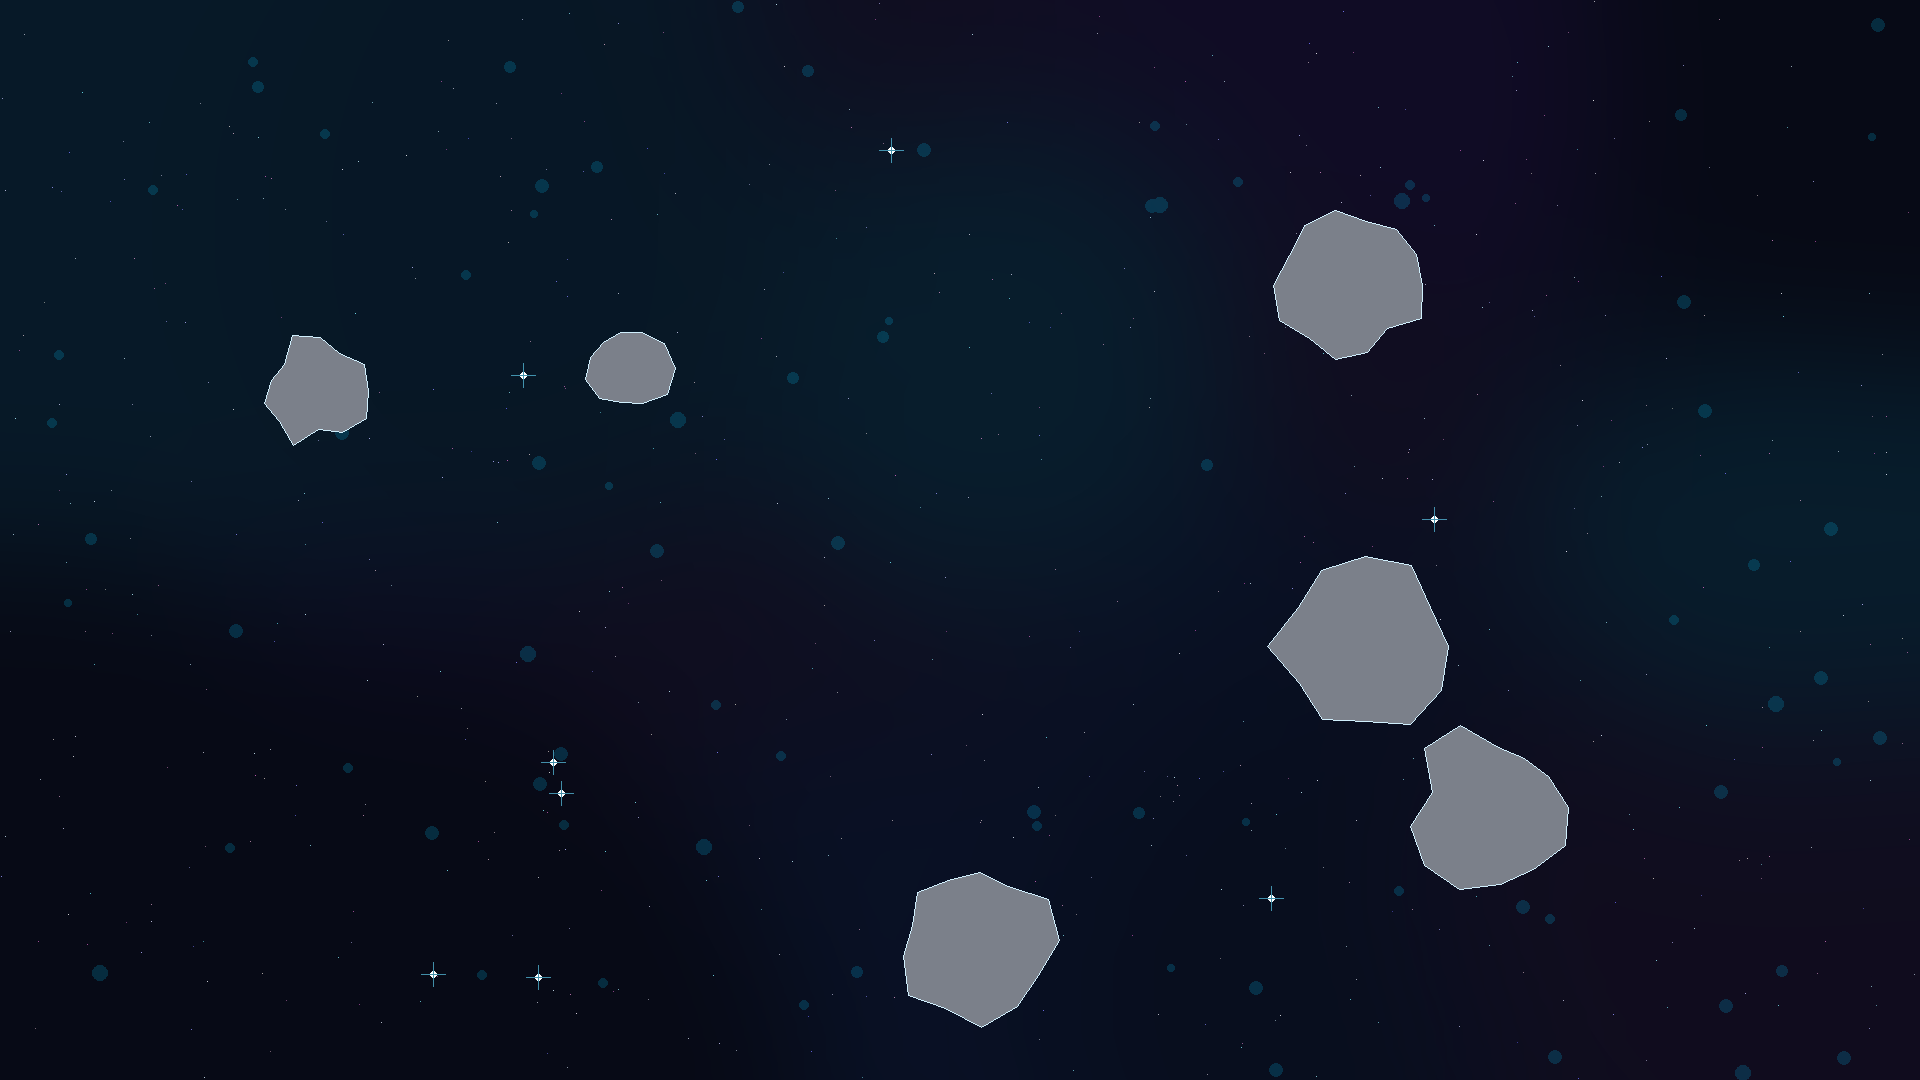
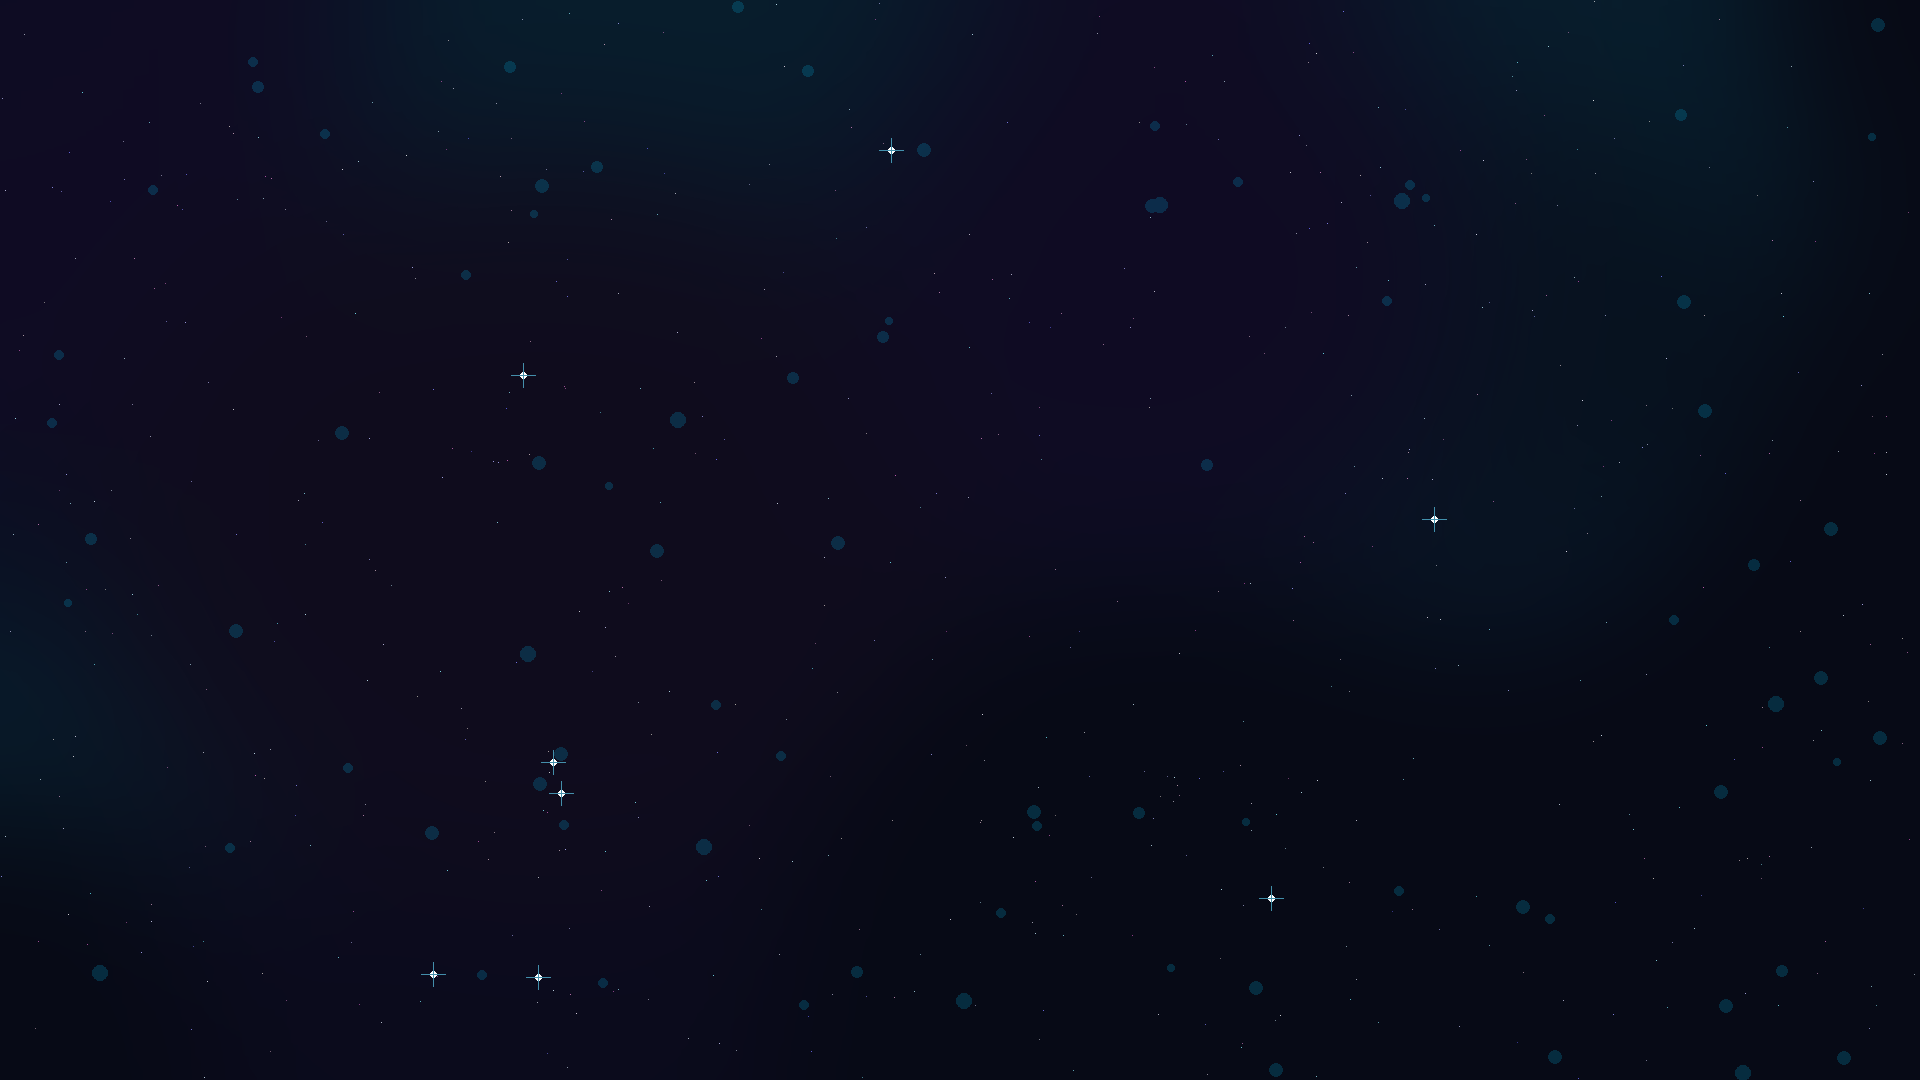
fix(asteroid_drift): clean background texture, enable drop pickups and ensure wave progression

diff --git a/asteroid_drift/assets/generate_graphics.py b/asteroid_drift/assets/generate_graphics.py
@@ -68,24 +68,9 @@ def create_nebula(width, height):
 def generate_menu_bg():
     width, height = 1920, 1080
     bg = create_nebula(width, height)
-    draw = ImageDraw.Draw(bg)
-    
-    # Distant subtle asteroid silhouettes in the background
-    random.seed(1337)
-    for _ in range(6):
-        ax = random.randint(100, width - 100)
-        ay = random.randint(100, height - 100)
-        ar = random.randint(40, 90)
-        points = []
-        num_pts = random.randint(10, 14)
-        for i in range(num_pts):
-            angle = i * (2 * math.pi / num_pts)
-            dist = ar * random.uniform(0.75, 1.15)
-            points.append((ax + math.cos(angle) * dist, ay + math.sin(angle) * dist))
-        draw.polygon(points, fill=(15, 23, 42, 140), outline=(56, 189, 248, 60))
-        
     bg.save("asteroid_drift/assets/graphics/menu_bg.png", "PNG")
     print("menu_bg.png generated")
+
 
 def generate_splash():
     width, height = 1920, 1080
